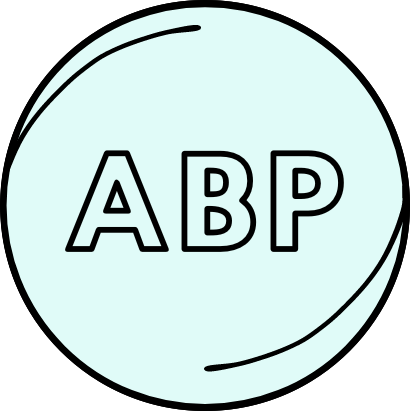
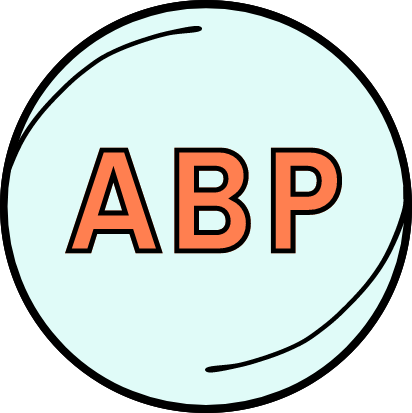
more css, translated the navigation and intro, added mail button still need to make it functional

diff --git a/src/components/Body/Home/Home.jsx b/src/components/Body/Home/Home.jsx
@@ -26,17 +26,21 @@ export default function Home() {
     return (
         <>
             <main>
-                <header className="home" id="home">
+                <header ref={(el) => hiddenElementsRef.current.push(el)} className="home hidden" id="home">
                     <h1 id="itsame" className="summary">Hi, I'm Anna Britta!</h1>
                     <p className="size summary">I am a full stack web developer who enjoys creating aesthetic designs with efficient and easy to read code.</p>
                 </header>
-                <section id="about" ref={(el) => hiddenElementsRef.current.push(el)} className="hidden">
+                <section id="about" ref={(el) => hiddenElementsRef.current.push(el)} className="article hidden">
                     <h1><b>About</b></h1>
                     <div className='summary summary2'>
-                        <p className="school-info paragraphs">I want to talk all about me!</p>
+                        <p className="school-info paragraphs">Throughout my youth and into the present, I have been drawn to activities that challenge ones creativity and mind. As such, over the years I have pursued professions that require the development of unique, functional, and goal oriented programs <span>(strength training regimens + exercise therapy programs).</span></p> 
+                        <p className="school-info paragraphs">Recently, I have found that same challenge within full stack coding. I enjoy working both frontend and backend, seeing projects change and grow into smooth running apps. As a full stack developer it is my aim to continue improving upon my coding skills while working with a team to build efficiently constructed and visually pleasing products. I enjoy an encouraging environment that values collaboration and strong communication, and I would love to continue creating health focused designs.
+                        </p>
+                        <p className="school-info paragraphs">Outside of work you can find me rock climbing, painting, running, lifting, or sun bathing while reading a good book ☺.
+                        </p>
                     </div>
                 </section>
-                <section id="skills" ref={(el) => hiddenElementsRef.current.push(el)} className="hidden">
+                <section id="skills" ref={(el) => hiddenElementsRef.current.push(el)} className="hidden article">
                     <h1><b>Skills</b></h1>
                     <div className='stack summary summary2'>
                         <div className="school-info paragraphs"><b>Languages</b>
@@ -68,7 +72,7 @@ export default function Home() {
                         </div>
                     </div>
                 </section>
-                <section id="experience" ref={(el) => hiddenElementsRef.current.push(el)} className="hidden">
+                <section id="experience" ref={(el) => hiddenElementsRef.current.push(el)} className="hidden article">
                     <h1><b>Experience</b></h1>
                     <div className='summary summary2'>
                         <p className="school-info paragraphs"><b>Full Stack Web Developer</b></p>
@@ -81,11 +85,11 @@ export default function Home() {
                         <p className="school-info">Advanced Wellness Centre (2020-2023)</p>
                     </div>
                 </section>
-                <section id="projects" ref={(el) => hiddenElementsRef.current.push(el)} className="hidden">
+                <section id="projects" ref={(el) => hiddenElementsRef.current.push(el)} className="hidden article">
                     <h1><b>Projects</b></h1>
                     <div className='summary summary2'>
                         <div className="school-info paragraphs projects">
-                            <p><b>OmniHealth Records</b></p>
+                            <p className='proj'><b>OmniHealth Records</b> <i className="fa-solid fa-link"></i></p>
                             <p>React web app designed to help health services record and update facility and client information.</p>
                             <div className="languages">
                                 <li className="skills">React</li>
@@ -98,7 +102,7 @@ export default function Home() {
                             </div>
                         </div>
                         <div className="school-info paragraphs projects">
-                            <p><b>Project Hyperdrive</b></p>
+                            <p className='proj'><b>Project Hyperdrive</b> <i className="fa-solid fa-link"></i></p>
                             <p>Interactive space travel website designed as an educational tool to learn more about exoplanets outside of our solar system.</p>
                             <div className="languages">
                                 <li className="skills">Javascript (ES6)</li>
@@ -112,7 +116,7 @@ export default function Home() {
                             </div>
                         </div>
                         <div className="school-info paragraphs projects">
-                            <p><b>ABP Fitness</b></p>
+                            <p className='proj'><b>ABP Fitness</b> <i className="fa-solid fa-link"></i></p>
                             <p>Fitness website designed to promote a personal training business via pre-programmed workouts and online training.</p>
                             <div className="languages">
                                 <li className="skills">React</li>
@@ -124,7 +128,7 @@ export default function Home() {
                         </div>
                     </div>
                 </section>
-                <section id="education" ref={(el) => hiddenElementsRef.current.push(el)} className="hidden">
+                <section id="education" ref={(el) => hiddenElementsRef.current.push(el)} className="hidden article">
                     <h1><b>Education</b></h1>
                     <div className='summary summary2'>
                         <p className="school-name ">University of Denver (2023) </p>

diff --git a/src/components/Header/Navigation.jsx b/src/components/Header/Navigation.jsx
@@ -1,25 +1,60 @@
 import { useLocation } from 'react-router-dom';
-import { useState } from 'react';
+import { useState, useEffect, useRef } from 'react';
 import { HashLink as Link } from 'react-router-hash-link';
 import './Navigation.css'
 
 export default function Navigation({ handleChange, isChecked }) {
+
+  const visible = useRef([]);
+  const logo = useRef([]);
+
+  useEffect(() => {
+    const observer = new IntersectionObserver((entries) => {
+        console.log(entries)
+        entries.forEach((entry) => {
+            if (entry.isIntersecting) {
+                entry.target.classList.add('visible');
+                observer.unobserve(entry.target)
+            } else {
+                entry.target.classList.remove('visible');
+            }
+        })
+    });
+
+    visible.current.forEach((el) => observer.observe(el));
+}, [visible.current]);
+
+useEffect(() => {
+  const observer = new IntersectionObserver((entries) => {
+      console.log(entries)
+      entries.forEach((entry) => {
+          if (entry.isIntersecting) {
+              entry.target.classList.add('display');
+              observer.unobserve(entry.target)
+          } else {
+              entry.target.classList.remove('display');
+          }
+      })
+  });
+
+  logo.current.forEach((el) => observer.observe(el));
+}, [logo.current]);
 
 
   return (
     <>
       <section id="navigation">
         <div>
-          <img className="logo" src="/ABP.png" alt="logo" />
+          <img ref={(el) => logo.current.push(el)} className="logo noshow" src="/ABP2.png" alt="logo" />
         </div>
-        <ul className="nav-bar">
+        <ul ref={(el) => visible.current.push(el)} className="nav-bar hide">
           <Link className="nav-item style" to="#about">about</Link>
           <Link className="nav-item style" to="#experience">work</Link>
           <Link className="nav-item style" to="#projects">projects</Link>
-          <button className="resumebtn"><a className="resumebtn style" href="resume/Anna-Britta-Pincus.pdf" download>Resume</a></button>
+          <button className="resumebtn"><a className="resumebtn style" href="" download>Resume</a></button>
           <label htmlFor="check" className="switch">
             <input type="checkbox" className="toggle" id="check" onChange={handleChange} checked={isChecked} />
-            <span class="slider round"></span>
+            <span className="slider round"></span>
           </label>
         </ul>
       </section>

diff --git a/src/components/Body/Home/Home.css b/src/components/Body/Home/Home.css
@@ -4,9 +4,15 @@ main {
 
 .home {
   font-size: 40px;
-  margin-top: 20vh;
-  height: 60vh;
-  width: 100vw;
+  margin-top: 5vh;
+  padding-top: 10vh;
+  height: 45vh;
+  margin-bottom: 20vh;
+  width: 80vw;
+  background: var(--info-background-color);
+  border-top-right-radius: 10px;
+  border-bottom-right-radius: 10px;
+  border-top: var(--border);
 }
 
 .size {
@@ -24,15 +30,19 @@ main {
   width: 800px;
 }
 
-
 .hidden {
   opacity: 0;
+  transition: all 2.5s;
+  transform: translateX(-50%);
+}
+.article {
   transition: all 1.5s;
   margin-bottom: 20vh;
   margin-left: 10vw;
   text-align: right;
   display: flex;
-  transform: translateX(-50%);
+  border-right: var(--article-border);
+  margin-right: 5vw;
 }
 
 h1 {
@@ -70,6 +80,7 @@ h1 {
   margin-left: 0;
   padding: 5px;
   font-size: 20px;
+  background-color: var(--light-coral);
 }
 
 .stack {
@@ -81,11 +92,22 @@ h1 {
 }
 
 .projects {
-  border: solid var(--primary-text-color) 2px;
+  border: var(--border-type);
   display: block;
   padding: 5px;
   margin-bottom: 3vw;
 
 }
 
+.proj{
+  border-bottom: solid var(--primary-text-color) 2px ;
+  display: flex;
+  justify-content: space-between;
+}
+.fa-link:hover{
+  transform: scale(1.1);
+}
 
+.extra-toggles{
+  align-items: end;
+}

diff --git a/src/index.css b/src/index.css
@@ -7,12 +7,23 @@
 :root{
 --background-color: #e0fbf8;
 --primary-text-color:black;
---border-color: coral;
+--border-color: #ff7f50;
+--light-coral:#fcbda6;
+--border-type: solid var(--primary-text-color) 2px;
+--info-background-color: #ff8f66;
+--border: none;
+--article-border: rgb(255, 143, 102) dashed 10px;
 
 }
 
 [data-theme="crazy"]{
-    --background-color: linear-gradient(to right, #515151,coral);
+    --background-color: linear-gradient(to right, #515151,#ff7f50);
     --primary-text-color:#e0fbf8;
     --border-color: #e0fbf8;
+    --light-coral:#7d7370;
+    --spin: rotate(360deg);
+    --border-type: solid var(--primary-text-color) 2px ;
+    --info-background-color: #515151;
+    --border: solid var(--primary-text-color) 2px ;
+    --article-border: #e0fbf8 dashed 5px;
 }

diff --git a/src/components/Footer/Footer.jsx b/src/components/Footer/Footer.jsx
@@ -9,10 +9,13 @@ export default function Footer() {
                 <p>Created by me © 2024</p>
                 <div>
                 <Link to="https://www.linkedin.com/in/anna-britta-pincus-25293b137/" className="sourcelinks">
-                    LinkedIn
+                <i className="fa-brands fa-linkedin"></i>
                 </Link>
                 <Link to="https://github.com/lilpinc" className="sourcelinks">
-                    Github
+                <i className="fa-brands fa-square-github"></i>
+                </Link>
+                <Link to="https://github.com/lilpinc" className="sourcelinks">
+                <i className="fa-solid fa-envelope"></i>
                 </Link>
                 </div>
             </div>

diff --git a/src/components/Header/Navigation.css b/src/components/Header/Navigation.css
@@ -7,6 +7,10 @@
     left: 1rem;
     position: absolute;
     top: 2rem;
+    transition: transform .7s ease-in-out;
+}
+.logo:hover{
+  transform: var(--spin);
 }
 .nav-bar{
     align-items: center;
@@ -112,4 +116,17 @@ ul{
     border-radius: 50%;
   }
   
-  
+  .hide {
+    opacity: 0;
+    transition: all 1.5s;
+    margin-bottom: 20vh;
+    margin-left: 10vw;
+    text-align: right;
+    display: flex;
+    transform: translateY(-50%);
+  }
+
+  .visible {
+    opacity: 1;
+    transform: translateY(0);
+  }

diff --git a/index.html b/index.html
@@ -4,6 +4,7 @@
     <meta charset="UTF-8" />
     <link rel="icon" type="image/svg+xml" href="/vite.svg" />
     <meta name="viewport" content="width=device-width, initial-scale=1.0" />
+    <script type="text/javascript" src="https://kit.fontawesome.com/1911208b78.js"></script>
     <title>Anna Pincus</title>
   </head>
   <body>

diff --git a/src/components/Footer/Footer.css b/src/components/Footer/Footer.css
@@ -8,3 +8,17 @@
 .sourcelinks{
     padding: 10px;
 }
+.fa-brands{
+    font-size:50px;
+    color: var(--primary-text-color);
+}
+.fa-solid{
+    font-size:50px;
+    color: var(--primary-text-color);
+}
+.fa-brands:hover{
+    transform: scale(1.1);
+  }
+.fa-solid:hover{
+    transform: scale(1.1);
+  }
